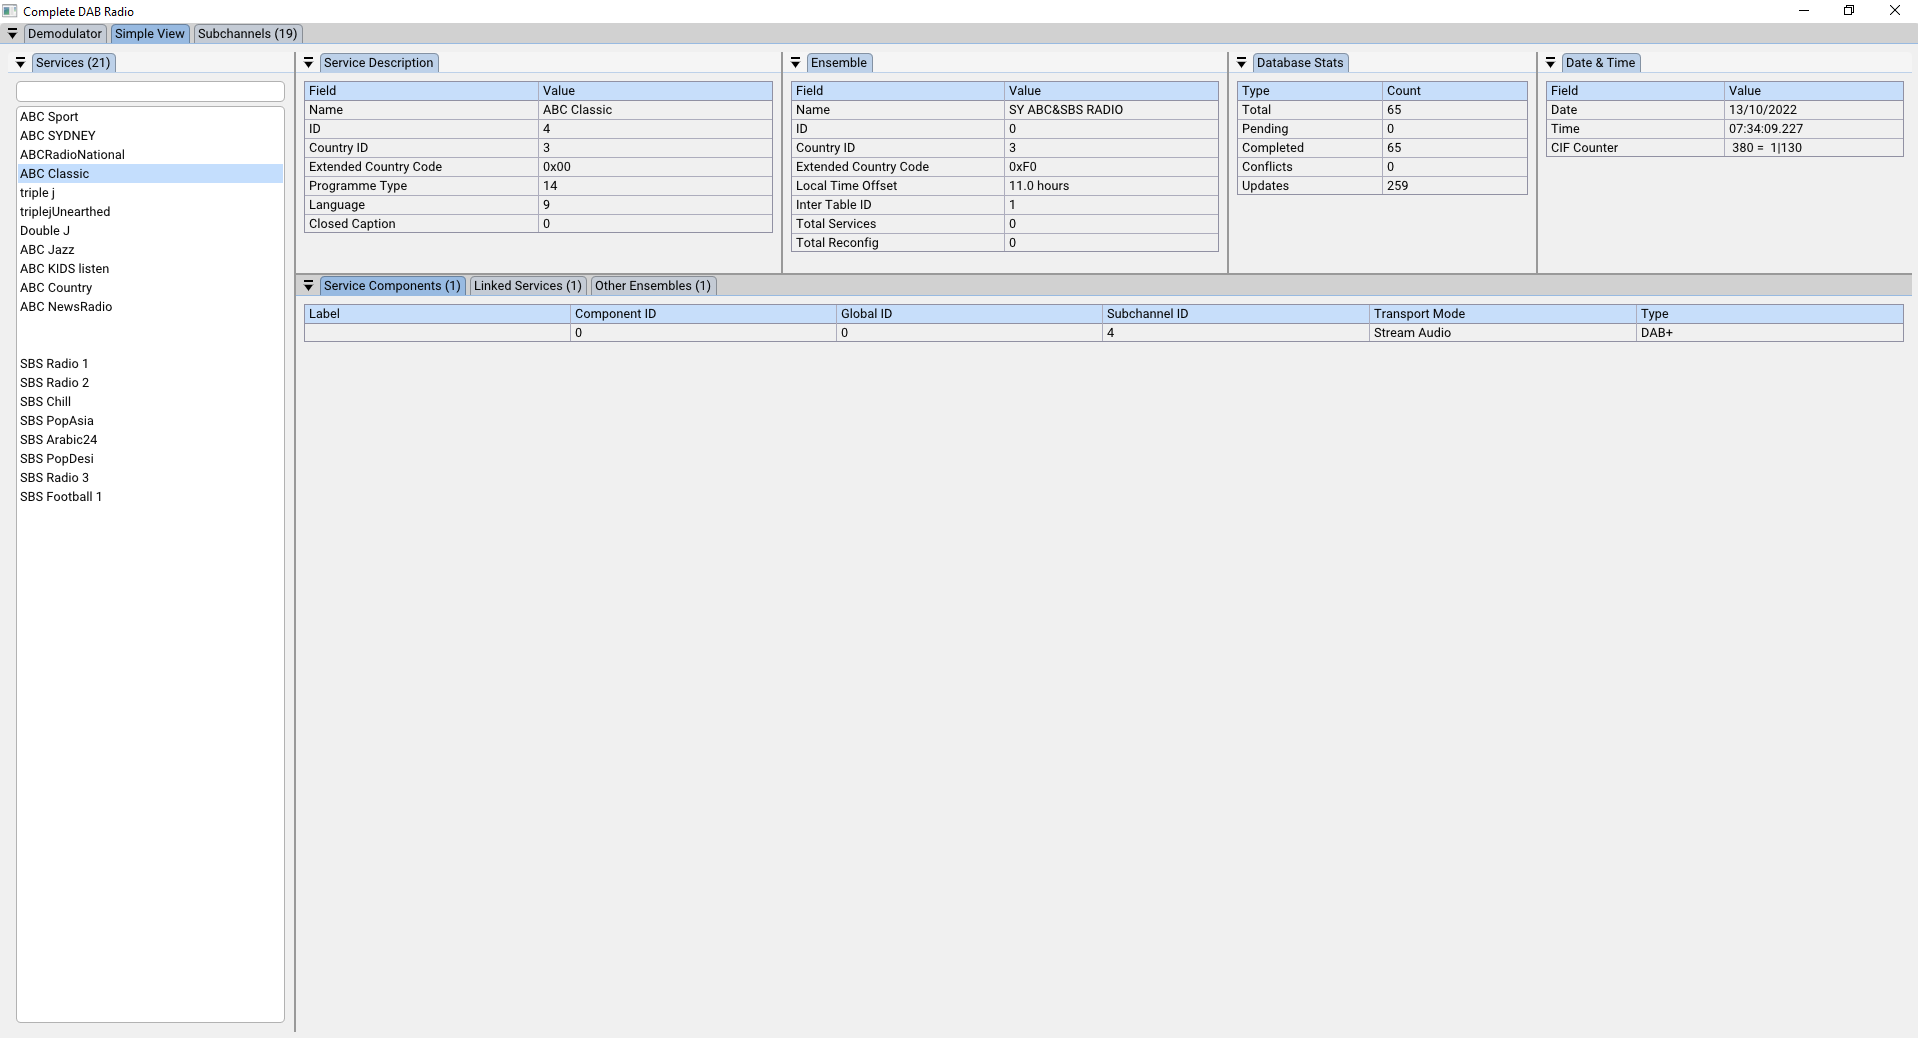
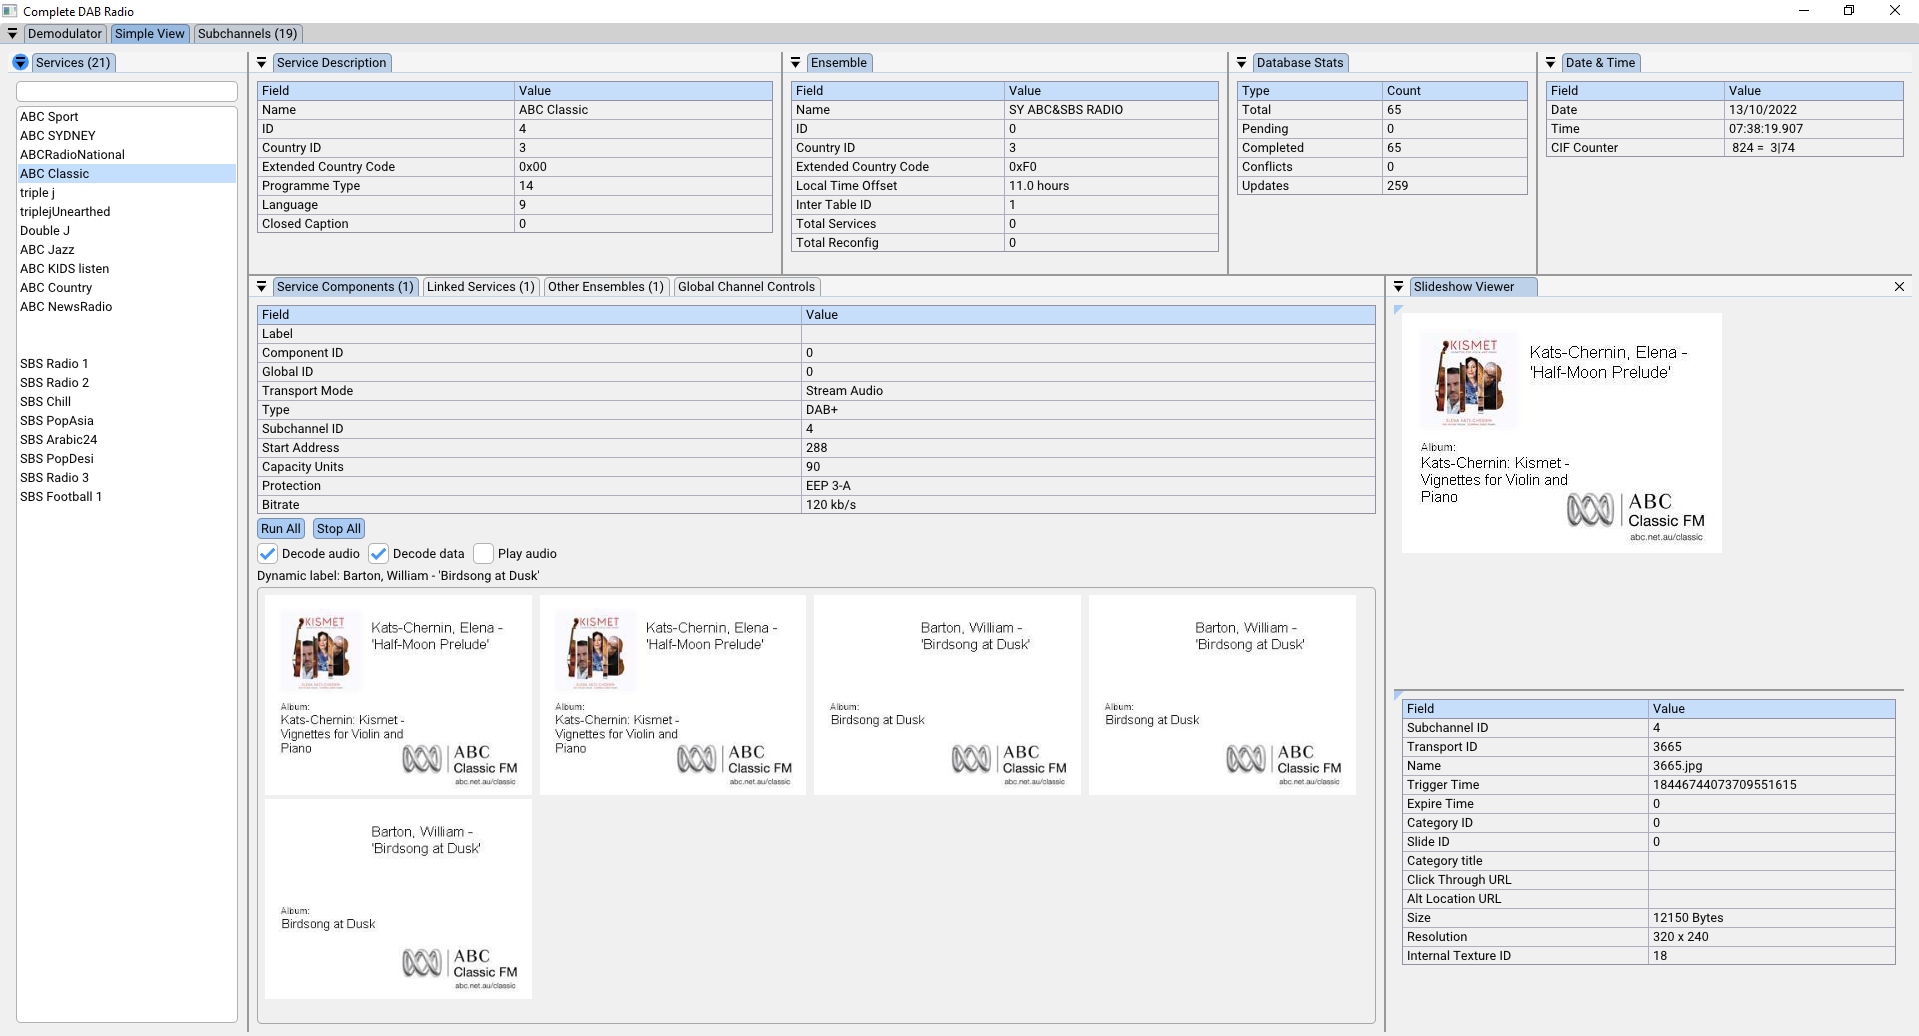
Updated documentation

diff --git a/README.md b/README.md
@@ -44,11 +44,47 @@ But the core algorithms are platform independent. You just need to write code to
 | Name | Description |
 | --- | --- |
 | bin/rtl_sdr | Reads raw 8bit IQ values from your rtl-sdr dongle to stdout |
-| basic_radio_app | Reads raw 8bit IQ stream and demodulates and decodes it for a basic radio |
+| basic_radio_app | Complete app that reads raw 8bit IQ stream and demodulates and decodes it into a basic radio |
 | basic_radio_app_no_demod | Reads in a digital OFDM frame from ofdm_demod_gui or ofdm_demod_cli and decodes it for a basic radio |
 | ofdm_demod_cli | Demodulates a raw 8bit IQ stream into digital OFDM frames |
 | ofdm_demod_gui | Demodulates a raw 8bit IQ stream into digital OFDM frames with a GUI |
+| convert_viterbi | Decodes/encodes between a viterbi_bit_t array of soft decision bits to a packed byte |
+| basic_radio_scraper | Reads raw 8bit IQ stream, demodulates and decodes the data, then saves it to disk |
+| basic_radio_scraper_no_demod | Reads in a digital OFDM frame from ofdm_demod_gui or ofdm_demod_cli, decodes the data then saves it to disk |
 | simulate_transmitter | Simulates a OFDM signal with a defined transmission mode, but doesn't contain any meaningful digital data. Outputs an 8bit IQ stream to stdout. |
+
+## Example usage scenarios
+### 1. Run the complete radio app on a DAB ensemble
+
+<code>./get_live_data.sh -c 9C | ./basic_radio_app.exe</code>
+
+### 2. Run data scraper
+
+<code>./get_live_data.sh -c 9C | ./basic_radio_scraper.exe -o ./data/9C_2/</code>
+
+### 3. Run OFDM demod while saving undecoded OFDM frame bits
+
+<code>./get_live_data.sh -c 9C | ./ofdm_demod_gui.exe > ./data/frame_bits_9C.bin</code>
+
+### 4. Run OFDM demod while saving undecoded OFDM frame as packed bytes for 8x less space
+
+<code>./get_live_data.sh -c 9C | ./ofdm_demod_gui.exe | ./convert_viterbi.exe > ./data/frame_bytes_9C.bin</code>
+
+### 5. Unpack packed bytes into OFDM frame bits and run DAB radio app
+
+<code>./convert_viterbi.exe -d -i ./data/frame_bytes_9C.bin | ./basic_radio_app_no_demod.exe</code>
+
+**NOTE**: This is useful for testing changes to your DAB decoding implementation by replaying packed byte OFDM frames that you recorded previously. 
+
+### 6. Play radio with GUI while storing OFDM frames as packed bytes
+
+<code>./get_live_data.sh -c 9C | ./ofdm_demod_gui.exe | ./convert_viterbi.exe | tee data/frame_bytes_9C.bin | ./convert_viterbi.exe -d | ./basic_radio_app_no_demod.exe</code>
+
+**NOTE**: <code>tee</code> is a unix application that reads in stdin and outputs to stdout and the specified filepath.
+
+### 6. Run data scraper with OFDM demodulator GUI while storing OFDM frames as packed bytes
+
+<code>./get_live_data.sh -c 9C | ./ofdm_demod_gui.exe | ./convert_viterbi.exe | tee data/frame_bytes_9C.bin | ./convert_viterbi.exe -d | ./basic_radio_scraper_no_demod.exe</code>
 
 ## TODO
 ### Optimisations
@@ -73,7 +109,8 @@ But the core algorithms are platform independent. You just need to write code to
     - Persist DAB database on the hard disk
 - Support the rest of the DAB standard
     - MPEG-II audio
-    - Stream/packet data for slideshows and extra programme information
+    - ~~Stream/packet data for slideshows and extra programme information~~
+- Add TII (transmitter identificaton information) decoding
 
 ### Documentation
 - Add as much comments to link specific pieces of code to parts of the standard that were heavily referenced. This includes the specific document number, the specific clause and specific table/chart used.

diff --git a/src/dab/README.md b/src/dab/README.md
@@ -5,11 +5,13 @@ Contains code that is used in the digital decoding stage for DAB (digital audio 
 | Folder | Description |
 | --- | --- |
 | algorithms | Commonly used algorithms that are not specific to DAB |
+| audio | Audio codecs used in DAB: AAC, MPEG-II (not supported yet) |
 | constants | DAB constants that are used in decoding |
+| database | A simple implementation of the DAB database for an ensemble |
 | fic | Decoding for the fast information channel (FIC) |
 | msc | Decoding for the main service channel (MSC) |
-| audio | Audio codecs used in DAB (AAC, MPEG-II) |
-| database | A simple implementation of the DAB database for an ensemble |
+| pad | Decodes program associated data |
+| mot | Reconstructs file entities from multimedia object transfers |
 
 ## Usage
 All the code here can be reused in other projects without dependencies.
@@ -22,6 +24,7 @@ The ETSI standards were heavily relied upon for developing this implementation o
 | Document | Description |
 | --- | --- |
 | ETSI EN 300 401 | Description of how DAB works as a whole |
+| ETSI EN 301 234 | Description of how multimedia object transfer |
 | ETSI TS 101 756 | Tables of constants used by DAB in it's FIC packets |
 | ETSI TS 102 563 | Description of audio super framing and AAC codec |
 | ETSI TS 101 499 | Description of slideshow |

diff --git a/src/basic_radio/README.md b/src/basic_radio/README.md
@@ -1,0 +1,14 @@
+## Introduction
+Classes for combining all of the DAB algorithms into a coherent radio application. 
+
+This is just an example implementation which has the following features:
+1. Browse through all audio channels
+2. Decode DAB+ audio channels (DAB not supported yet)
+    - Toggle programme associated data decoding
+    - Toggle audio data decoding
+    - Toggle audio playback through speakers
+    - Display programme associated data
+        - Dynamic labels
+        - MOT slideshows
+3. View detailed information of all existing DAB database entities
+    - Intended for academic purposes. A commerical implementation would hide most of this.

diff --git a/src/gui/basic_radio/README.md b/src/gui/basic_radio/README.md
@@ -1,0 +1,6 @@
+## Introduction
+A very rough GUI that connects to the basic_radio class.
+
+This implementation is more of an academic exercise and thus displays alot of technical information. 
+
+A real commerical implementation would only show the relevant information for a user.

diff --git a/src/basic_scraper/README.md b/src/basic_scraper/README.md
@@ -1,0 +1,4 @@
+## Introduction
+Connects to the basic_radio class and saves incoming information to local storage. 
+
+It is a simple data scraping app which you can leave running in the background to store all information being transmitted over the DAB ensemble.
